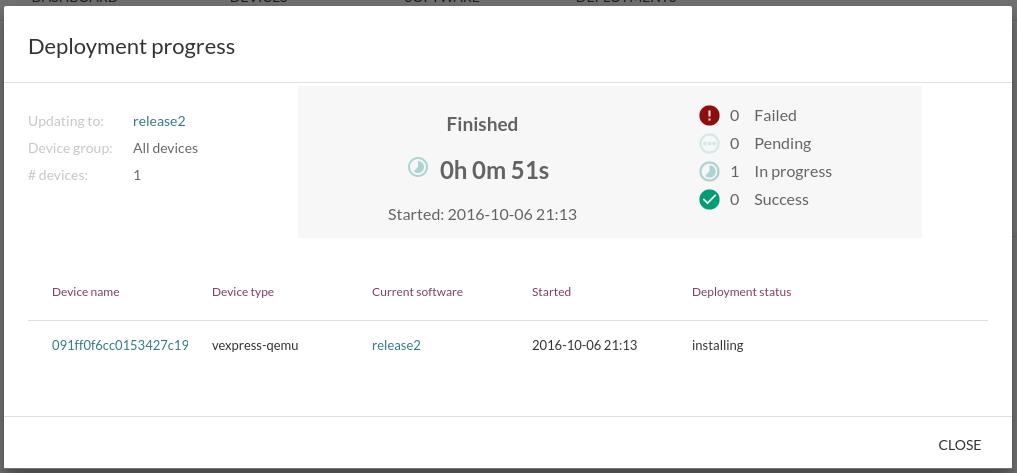
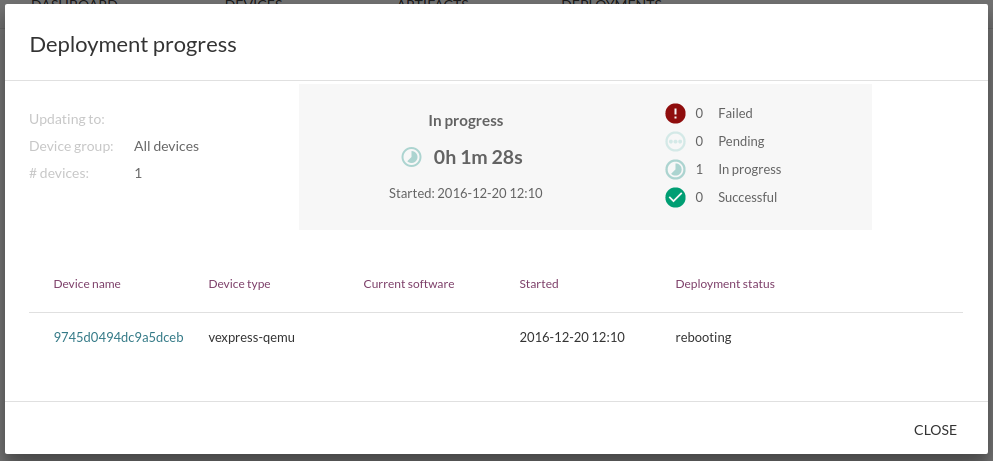
improved virtual devices with artifacts format, needs final testing and verification

diff --git a/01.Getting-started/03.Deploy-to-virtual-devices/docs.md b/01.Getting-started/03.Deploy-to-virtual-devices/docs.md
@@ -82,7 +82,7 @@ the virtual device is provided for download at
 [https://d1b0l86ne08fsf.cloudfront.net/master/vexpress-qemu/vexpress_release_2.mender](https://d1b0l86ne08fsf.cloudfront.net/master/vexpress-qemu/vexpress_release_2.mender).
 
 After the download finishes, go back to the Mender server UI,
-click the **Software** tab and upload this Mender Artifact.
+click the **Artifacs** tab and upload this Mender Artifact.
 
 Please fill in the following:
 
@@ -91,13 +91,11 @@ Please fill in the following:
 
 !!! Both these fields are just informational, to make it is easier to recognize Artifacts after they have been uploaded. Their contents do not affect deployments.
 
-In the UI, it should look something like this:
+In the UI it should look something like this:
 
 ![Mender UI - Upload Artifact](upload_artifact.png)
 
-!! TODO: Fix above screenshot
-
-!!! All devices report which *Device type* they are as part of their inventory information, for example `vexpress-qemu` or `beaglebone`. In adition, Mender Artifacts have *Device types compatible* as part of their metadata. During a deployment, the Mender server makes sure that a device will only get an Artifact it is compatible with. This increases the robustness of Mender as it avoids situations like deploying software that is not supported by the device hardware.
+!!! All devices report which *Device type* they are as part of their inventory information, for example `vexpress-qemu` or `beaglebone`. In adition, Mender Artifacts have *Device types compatible* as part of their metadata. During a deployment, Mender makes sure that a device will only get and install an Artifact it is compatible with. This increases the robustness of Mender as it avoids situations like deploying software that is not supported by the device hardware.
 
 
 ## Deploy the Mender Artifact to the device
@@ -118,11 +116,10 @@ the Artifact we just uploaded and **All devices**, then
 ## See the progress of the deployment
 
 As the deployment progresses, you can click on it to view more details about the current status across all devices.
-In the example below, we can see that the device is in process of installing the new Artifact.
+In the example below, we can see that the device has finished the installation and is in process of rebooting into
+the new rootfs deployed with the Artifact.
 
 ![Mender UI - Deployment progress](deployment_report.png)
-
-!! TODO Fix above screenshot.
 
 !!! The deployment to the virtual device should take about 2-3 minutes to complete and report success or failure.
 
@@ -133,7 +130,7 @@ Once the deployment completes, you should see it in *Past deployments*.
 If the deployment fails you can view the deployment log,
 which is obtained from the device, to diagnose the issue.
 You can also see the state of deployments on the Dashboard.
-In **Devices** you can see that `artifact_name` has now changed to `test`.
+In **Devices** you can see that `artifact_name` has now changed to `release2`.
 
 !! TODO: actial artifact_name above
 
@@ -152,6 +149,8 @@ It should yield output similar to the following.
 >   
 > This system has been updated by Mender build...
 
+!! TODO: check this is still the case
+
 You can see that this has changed from when we ran it in
 [See information about the device](#see-information-about-the-device).
 This shows your virtual device runs the new rootfs!
@@ -167,13 +166,11 @@ that is already installed and skip the deployment. It will
 immediately be marked as successful and moved to *Past deployments*.
 
 For this reason, we provide another Artifact that you can use
-to deploy with at [https://d1b0l86ne08fsf.cloudfront.net/master/vexpress-qemu/vexpress_release_1.mender](https://d1b0l86ne08fsf.cloudfront.net/master/vexpress-qemu/vexpress_release_1.mender). 
-Make sure to not mix it with the test Artifact you downloaded above,
-as they have the same file name.
+to deploy with at [https://d1b0l86ne08fsf.cloudfront.net/master/vexpress-qemu/vexpress_release_1.mender](https://d1b0l86ne08fsf.cloudfront.net/master/vexpress-qemu/vexpress_release_1.mender).
 This Artifact actually contains the original  of your
 QEMU virtual device, before you deployed the update above.
 
-Go to **Software** again and upload with the following fields:
+Go to **Artifacts** again and upload with the following fields:
 
 * Name: `release1`
 * Description: `My original build`
